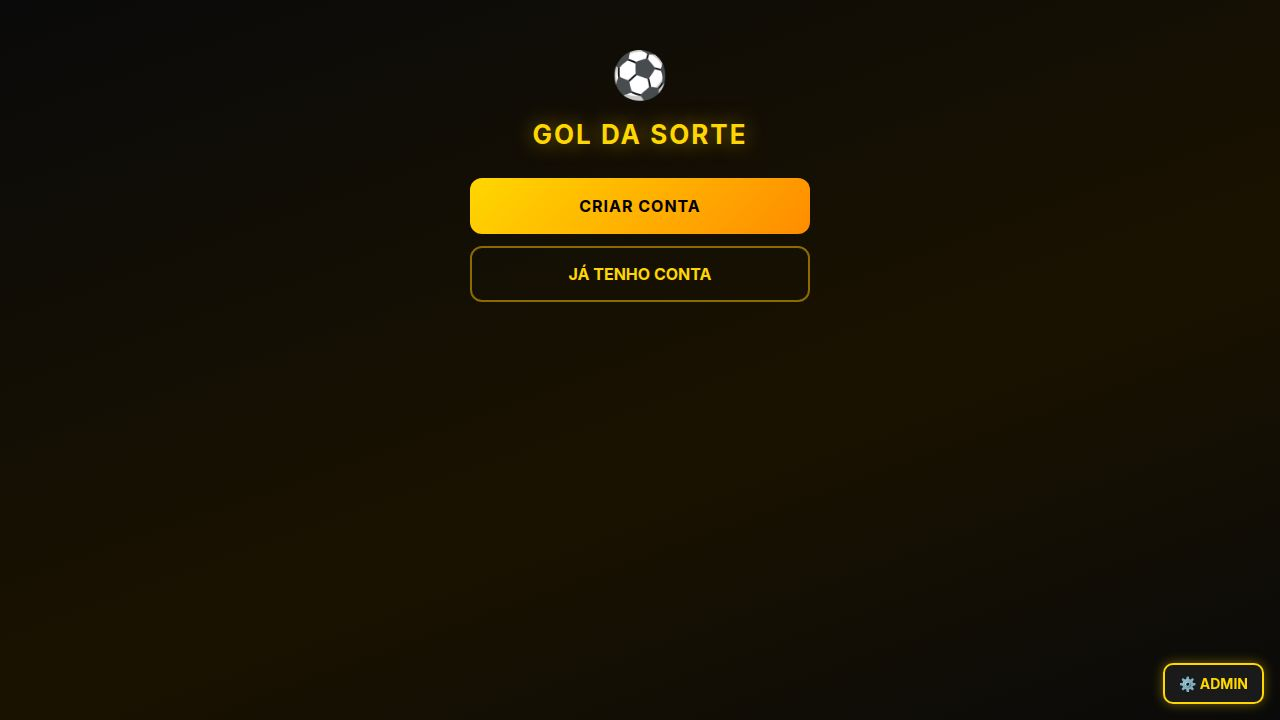
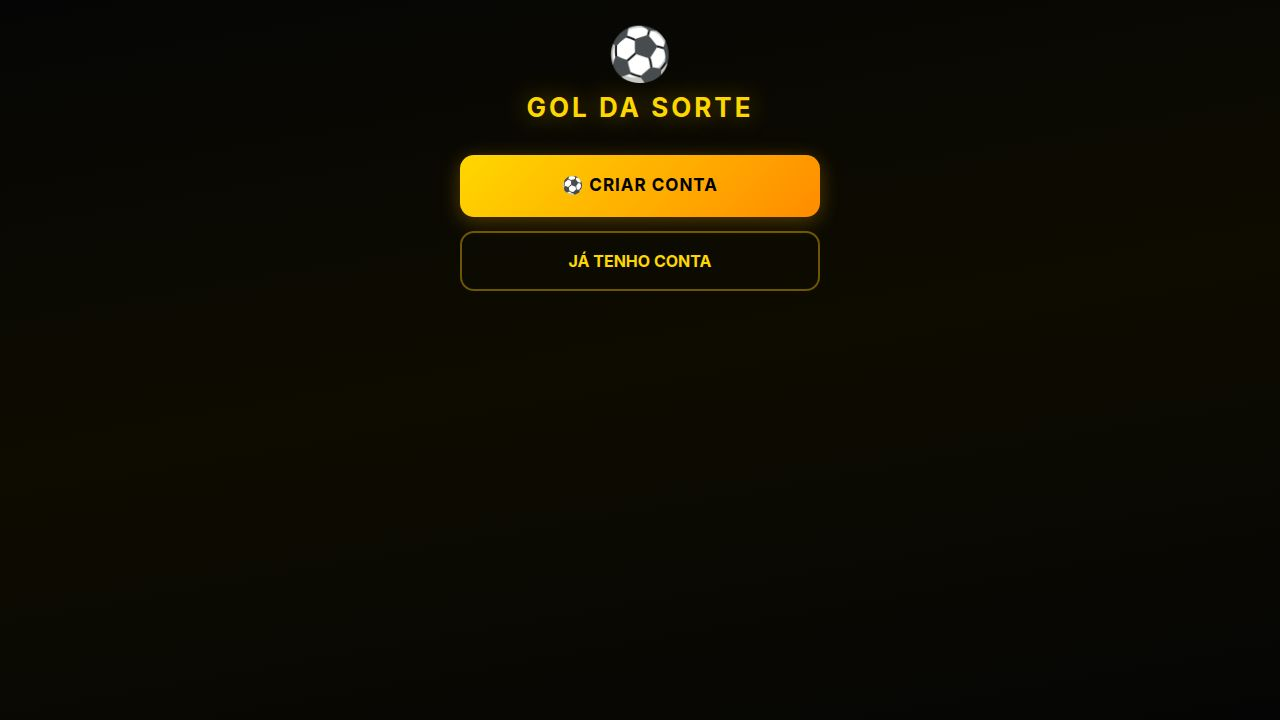
Integrate Mercado Pago for handling PIX payments and game unlocks
Replaces custom PIX generation with Mercado Pago API integration for creating and managing PIX payments, updating payment processing logic in the payments route.

Replit-Commit-Author: Agent
Replit-Commit-Session-Id: a1caae36-bce0-4ad2-8d5a-b09bf7671251
Replit-Commit-Checkpoint-Type: full_checkpoint
Replit-Commit-Event-Id: bfedb1fe-5859-4e69-8d51-c1be367df20f
Replit-Commit-Screenshot-Url: https://storage.googleapis.com/screenshot-production-us-central1/93bfb1ea-adc9-4d86-bb85-20a1db235783/a1caae36-bce0-4ad2-8d5a-b09bf7671251/FIEbvYz
Replit-Helium-Checkpoint-Created: true

Changed region(s): [[0.3438, 0.0306, 0.6562, 0.4278], [0.9062, 0.9167, 1.0, 1.0]]

diff --git a/artifacts/api-server/src/routes/payments.ts b/artifacts/api-server/src/routes/payments.ts
@@ -1,58 +1,20 @@
 import { Router } from "express";
 import { db, paymentsTable, usersTable } from "@workspace/db";
 import { eq } from "drizzle-orm";
-import QRCode from "qrcode";
+import { MercadoPagoConfig, Payment } from "mercadopago";
 
 const router = Router();
 
-const PIX_KEY  = process.env.PIX_KEY  ?? "";
-const PIX_NAME = (process.env.PIX_NAME ?? "Gol da Sorte").slice(0, 25);
-const PIX_CITY = (process.env.PIX_CITY ?? "Brasil").slice(0, 15);
+const MP_ACCESS_TOKEN = process.env.MP_ACCESS_TOKEN ?? "";
 
 const PACKAGES: Record<number, number> = { 5: 500, 15: 1000, 30: 2000 };
 
-// ── PIX EMV payload (BACEN spec) ──────────────────────────────────────────────
-
-function tlv(id: string, value: string): string {
-  const len = String(value.length).padStart(2, "0");
-  return `${id}${len}${value}`;
+function getMpClient() {
+  if (!MP_ACCESS_TOKEN) throw new Error("MP_ACCESS_TOKEN não configurado.");
+  return new MercadoPagoConfig({ accessToken: MP_ACCESS_TOKEN });
 }
 
-function crc16(payload: string): string {
-  let crc = 0xffff;
-  for (let i = 0; i < payload.length; i++) {
-    crc ^= payload.charCodeAt(i) << 8;
-    for (let j = 0; j < 8; j++) {
-      crc = crc & 0x8000 ? (crc << 1) ^ 0x1021 : crc << 1;
-    }
-  }
-  return ((crc & 0xffff).toString(16).toUpperCase().padStart(4, "0"));
-}
-
-function buildPixPayload(key: string, name: string, city: string, amountCents: number, txId: string): string {
-  const amount = (amountCents / 100).toFixed(2);
-  const gui   = tlv("00", "BR.GOV.BCB.PIX");
-  const pixK  = tlv("01", key);
-  const merchant = tlv("26", gui + pixK);
-  const refLabel = tlv("05", txId.slice(0, 25));
-  const additional = tlv("62", refLabel);
-
-  const body =
-    tlv("00", "01") +
-    merchant +
-    tlv("52", "0000") +
-    tlv("53", "986") +
-    tlv("54", amount) +
-    tlv("58", "BR") +
-    tlv("59", name) +
-    tlv("60", city) +
-    additional +
-    "6304";
-
-  return body + crc16(body);
-}
-
-// ── Create pending payment + return QR code ───────────────────────────────────
+// ── Criar pagamento PIX via Mercado Pago ──────────────────────────────────────
 
 router.post("/create", async (req, res) => {
   const { userId, plays } = req.body as { userId: number; plays: number };
@@ -63,46 +25,76 @@ router.post("/create", async (req, res) => {
     return;
   }
 
-  const [user] = await db.select({ id: usersTable.id }).from(usersTable).where(eq(usersTable.id, userId));
+  const [user] = await db.select().from(usersTable).where(eq(usersTable.id, userId));
   if (!user) {
     res.status(404).json({ error: "Usuário não encontrado." });
     return;
   }
 
-  if (!PIX_KEY) {
-    res.status(503).json({ error: "Chave PIX não configurada. Fale com o administrador." });
+  if (!MP_ACCESS_TOKEN) {
+    res.status(503).json({ error: "Pagamento não configurado. Fale com o administrador." });
     return;
   }
 
   const txId = `GOL${Date.now()}${Math.random().toString(36).slice(2, 6).toUpperCase()}`;
+  const amount = amountCents / 100;
 
-  await db.insert(paymentsTable).values({
-    userId,
-    plays,
-    amountCents,
-    txId,
-    status: "pending",
-  });
+  try {
+    const client = getMpClient();
+    const paymentClient = new Payment(client);
 
-  const payload = buildPixPayload(PIX_KEY, PIX_NAME, PIX_CITY, amountCents, txId);
-  const qrDataUrl = await QRCode.toDataURL(payload, {
-    width: 300,
-    margin: 2,
-    color: { dark: "#000000", light: "#ffffff" },
-  });
+    const mpPayment = await paymentClient.create({
+      body: {
+        transaction_amount: amount,
+        description: `Gol da Sorte - ${plays} jogadas`,
+        payment_method_id: "pix",
+        payer: {
+          email: `jogador${userId}@goldaorte.app`,
+          first_name: user.name.split(" ")[0] ?? "Jogador",
+          last_name: user.name.split(" ").slice(1).join(" ") || "GolDaSorte",
+        },
+        external_reference: txId,
+        notification_url: `${process.env.APP_URL ?? ""}/api/payments/webhook`,
+      },
+    });
 
-  res.json({
-    txId,
-    pixKey: PIX_KEY,
-    pixName: PIX_NAME,
-    amount: (amountCents / 100).toFixed(2),
-    plays,
-    pixPayload: payload,
-    qrCode: qrDataUrl,
-  });
+    if (!mpPayment.id) {
+      res.status(502).json({ error: "Erro ao criar pagamento no Mercado Pago." });
+      return;
+    }
+
+    const pixData = mpPayment.point_of_interaction?.transaction_data;
+    const qrCodeBase64 = pixData?.qr_code_base64
+      ? `data:image/png;base64,${pixData.qr_code_base64}`
+      : null;
+    const qrCodeText = pixData?.qr_code ?? null;
+
+    await db.insert(paymentsTable).values({
+      userId,
+      plays,
+      amountCents,
+      txId,
+      mpPaymentId: String(mpPayment.id),
+      status: "pending",
+    });
+
+    res.json({
+      txId,
+      mpPaymentId: String(mpPayment.id),
+      amount: amount.toFixed(2),
+      plays,
+      pixPayload: qrCodeText,
+      qrCode: qrCodeBase64,
+    });
+  } catch (err: unknown) {
+    console.error("MP create error:", JSON.stringify(err, Object.getOwnPropertyNames(err as object)));
+    const mpErr = err as Record<string, unknown>;
+    const detail = mpErr?.cause ?? mpErr?.message ?? String(err);
+    res.status(502).json({ error: "Erro ao criar pagamento.", detail });
+  }
 });
 
-// ── Poll payment status ───────────────────────────────────────────────────────
+// ── Poll status ───────────────────────────────────────────────────────────────
 
 router.get("/:txId/status", async (req, res) => {
   const { txId } = req.params;
@@ -111,24 +103,75 @@ router.get("/:txId/status", async (req, res) => {
     res.status(404).json({ error: "Pagamento não encontrado." });
     return;
   }
+
+  // Se já confirmado no banco, retorna direto
+  if (payment.status === "confirmed") {
+    res.json({ status: "confirmed", plays: payment.plays });
+    return;
+  }
+
+  // Consulta o Mercado Pago para status atualizado
+  if (payment.mpPaymentId && MP_ACCESS_TOKEN) {
+    try {
+      const client = getMpClient();
+      const paymentClient = new Payment(client);
+      const mpPayment = await paymentClient.get({ id: Number(payment.mpPaymentId) });
+
+      if (mpPayment.status === "approved") {
+        await confirmPayment(txId);
+        res.json({ status: "confirmed", plays: payment.plays });
+        return;
+      }
+    } catch (err) {
+      console.error("MP status check error:", err);
+    }
+  }
+
   res.json({ status: payment.status, plays: payment.plays });
 });
 
-// ── Generic webhook — any PIX gateway can POST here ──────────────────────────
-// Expected body: { txId, status: "confirmed" }  OR  { referenceLabel, status }
+// ── Webhook Mercado Pago ──────────────────────────────────────────────────────
 
 router.post("/webhook", async (req, res) => {
-  const body = req.body as Record<string, string>;
-  const txId = body.txId || body.referenceLabel || body.reference || body.endToEndId;
-  if (!txId) {
-    res.status(400).json({ error: "txId não encontrado no webhook." });
-    return;
+  // Mercado Pago envia: { type: "payment", data: { id: "123456" } }
+  const body = req.body as Record<string, unknown>;
+
+  try {
+    // Formato novo (notifications v2)
+    if (body.type === "payment" && body.data) {
+      const mpId = (body.data as Record<string, unknown>).id;
+      if (mpId && MP_ACCESS_TOKEN) {
+        const client = getMpClient();
+        const paymentClient = new Payment(client);
+        const mpPayment = await paymentClient.get({ id: Number(mpId) });
+
+        if (mpPayment.status === "approved" && mpPayment.external_reference) {
+          await confirmPayment(mpPayment.external_reference);
+        }
+      }
+      res.json({ ok: true });
+      return;
+    }
+
+    // Formato legado — txId direto no body
+    const txId =
+      (body.txId as string) ||
+      (body.referenceLabel as string) ||
+      (body.reference as string) ||
+      (body.external_reference as string);
+
+    if (txId) {
+      await confirmPayment(txId);
+    }
+
+    res.json({ ok: true });
+  } catch (err) {
+    console.error("Webhook error:", err);
+    res.status(500).json({ error: "Erro interno no webhook." });
   }
-  await confirmPayment(txId);
-  res.json({ ok: true });
 });
 
-// ── Admin manual confirmation ─────────────────────────────────────────────────
+// ── Confirmação manual pelo admin ─────────────────────────────────────────────
 
 router.post("/admin/confirm/:txId", async (req, res) => {
   const { txId } = req.params;
@@ -140,7 +183,7 @@ router.post("/admin/confirm/:txId", async (req, res) => {
   res.json({ ok: true, playsAdded: result.plays });
 });
 
-// ── Shared confirm logic ──────────────────────────────────────────────────────
+// ── Lógica de confirmação ─────────────────────────────────────────────────────
 
 async function confirmPayment(txId: string) {
   const [payment] = await db.select().from(paymentsTable).where(eq(paymentsTable.txId, txId));